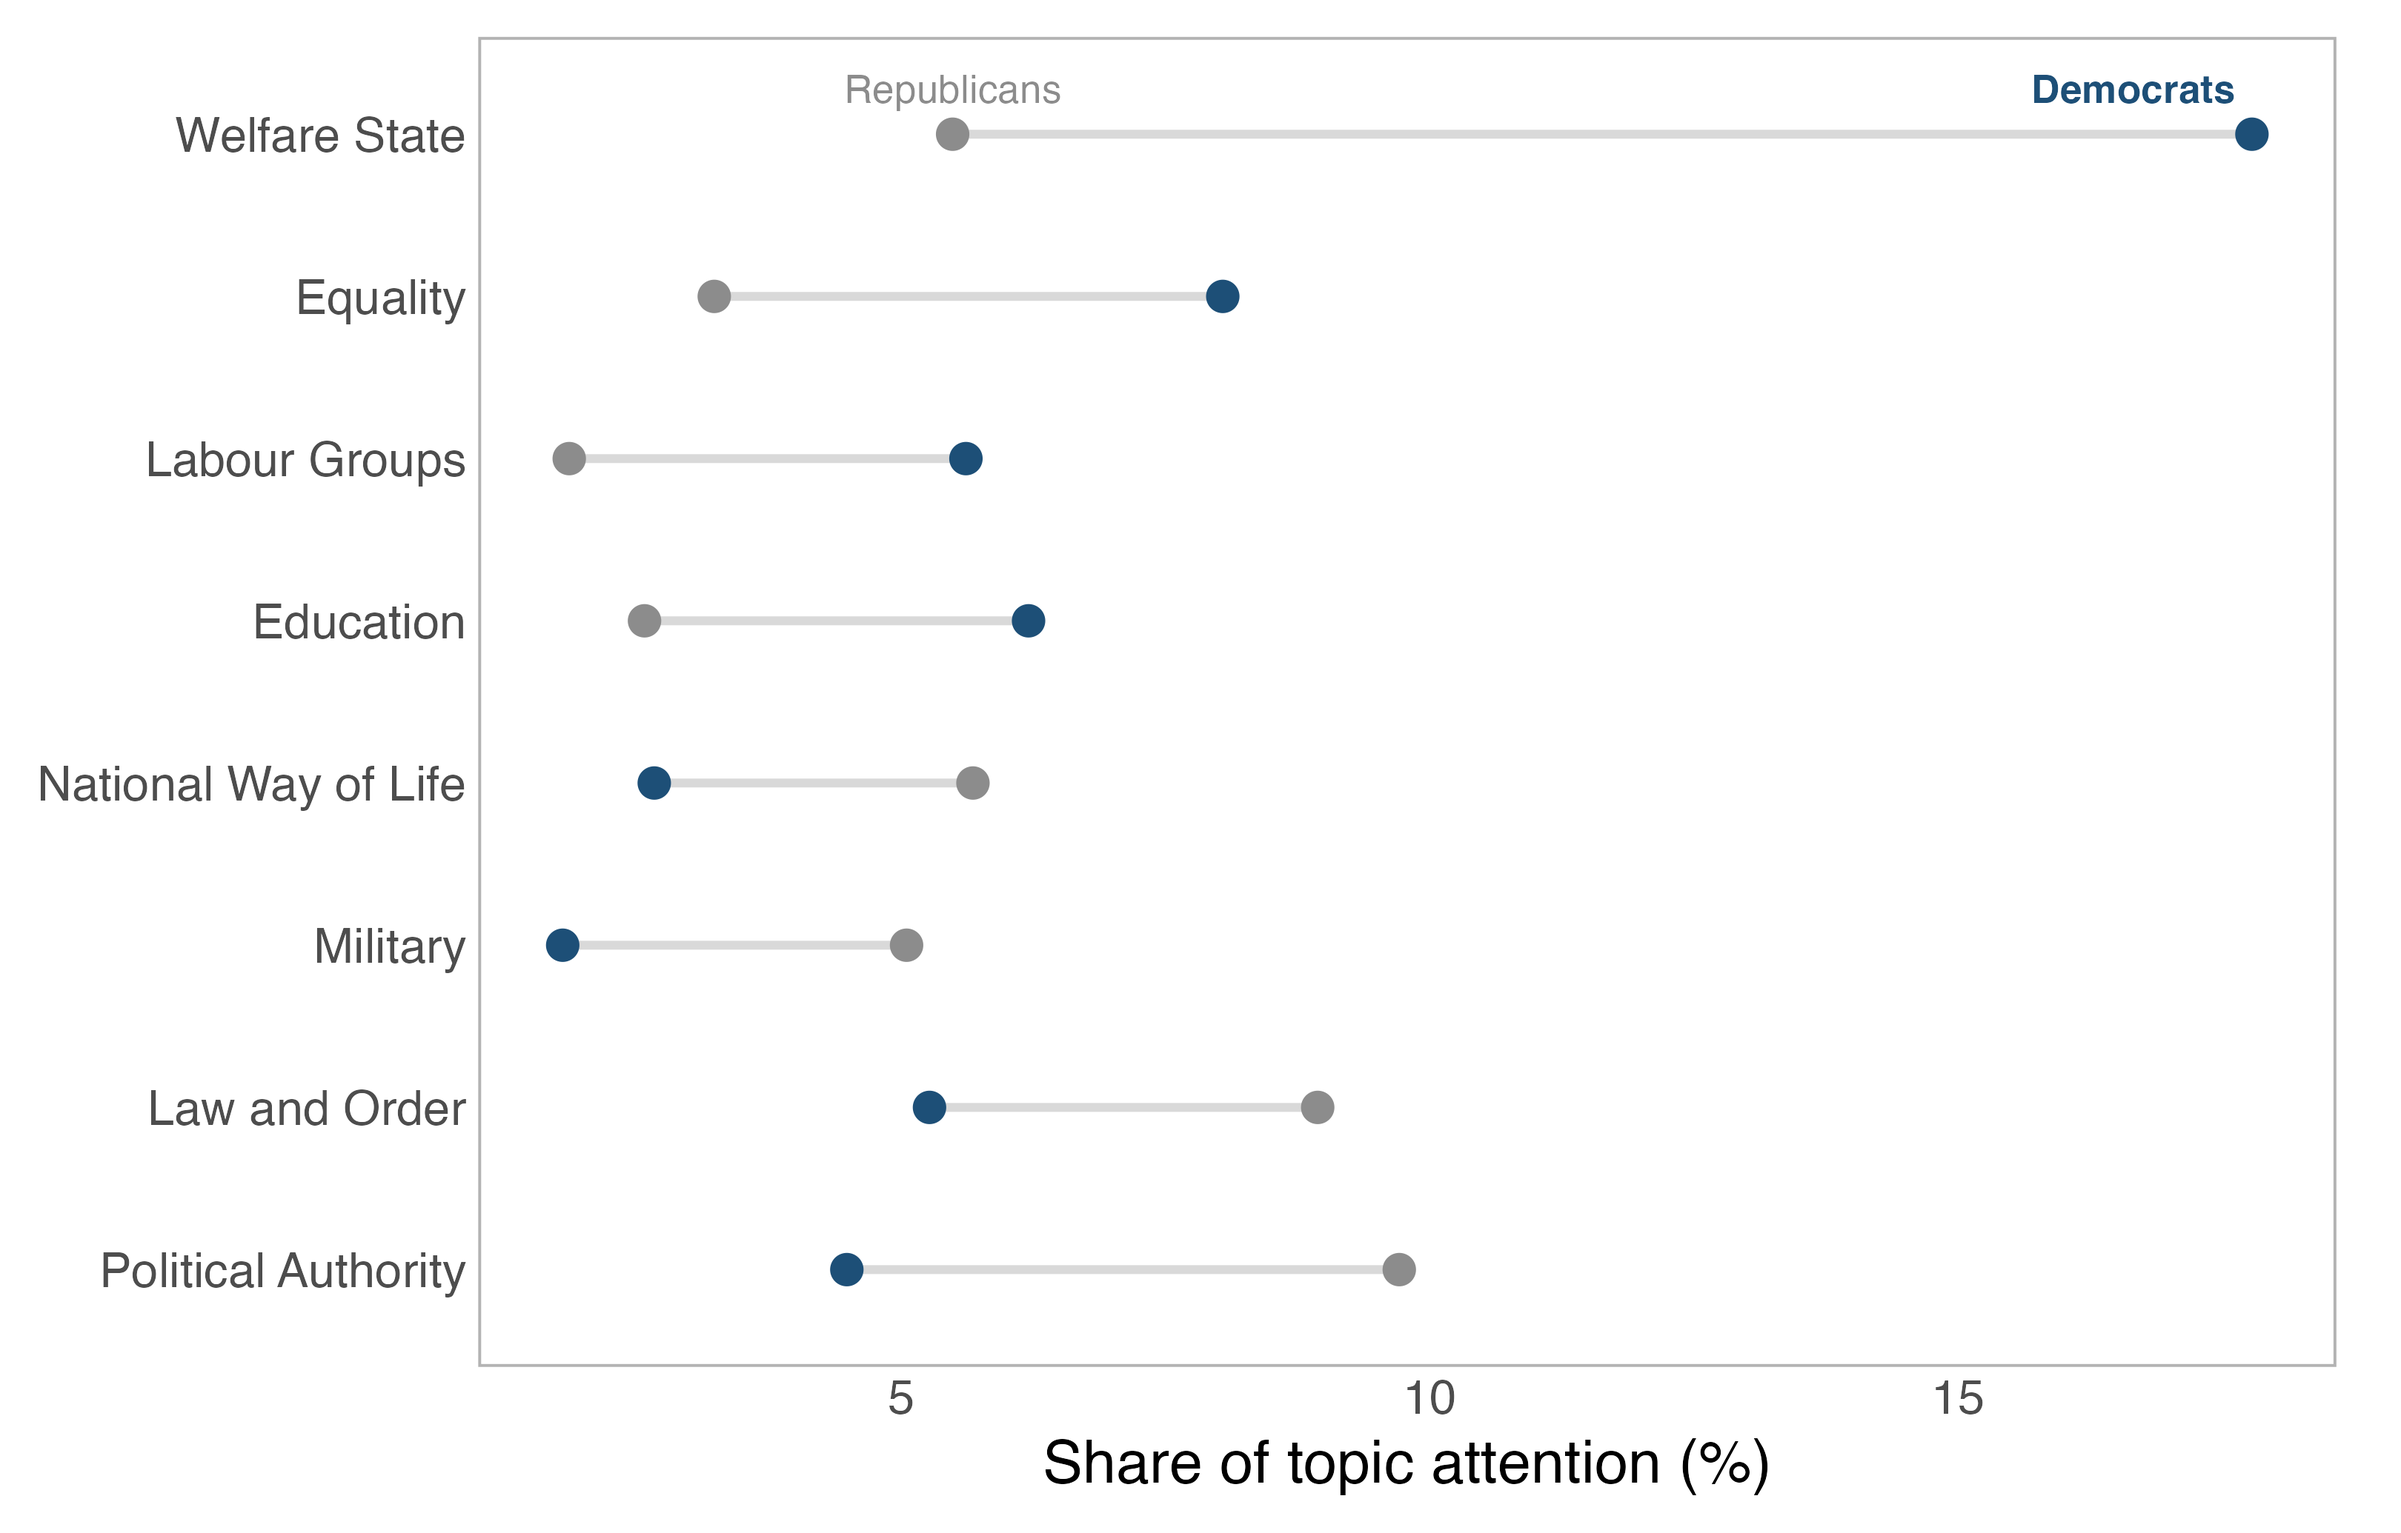
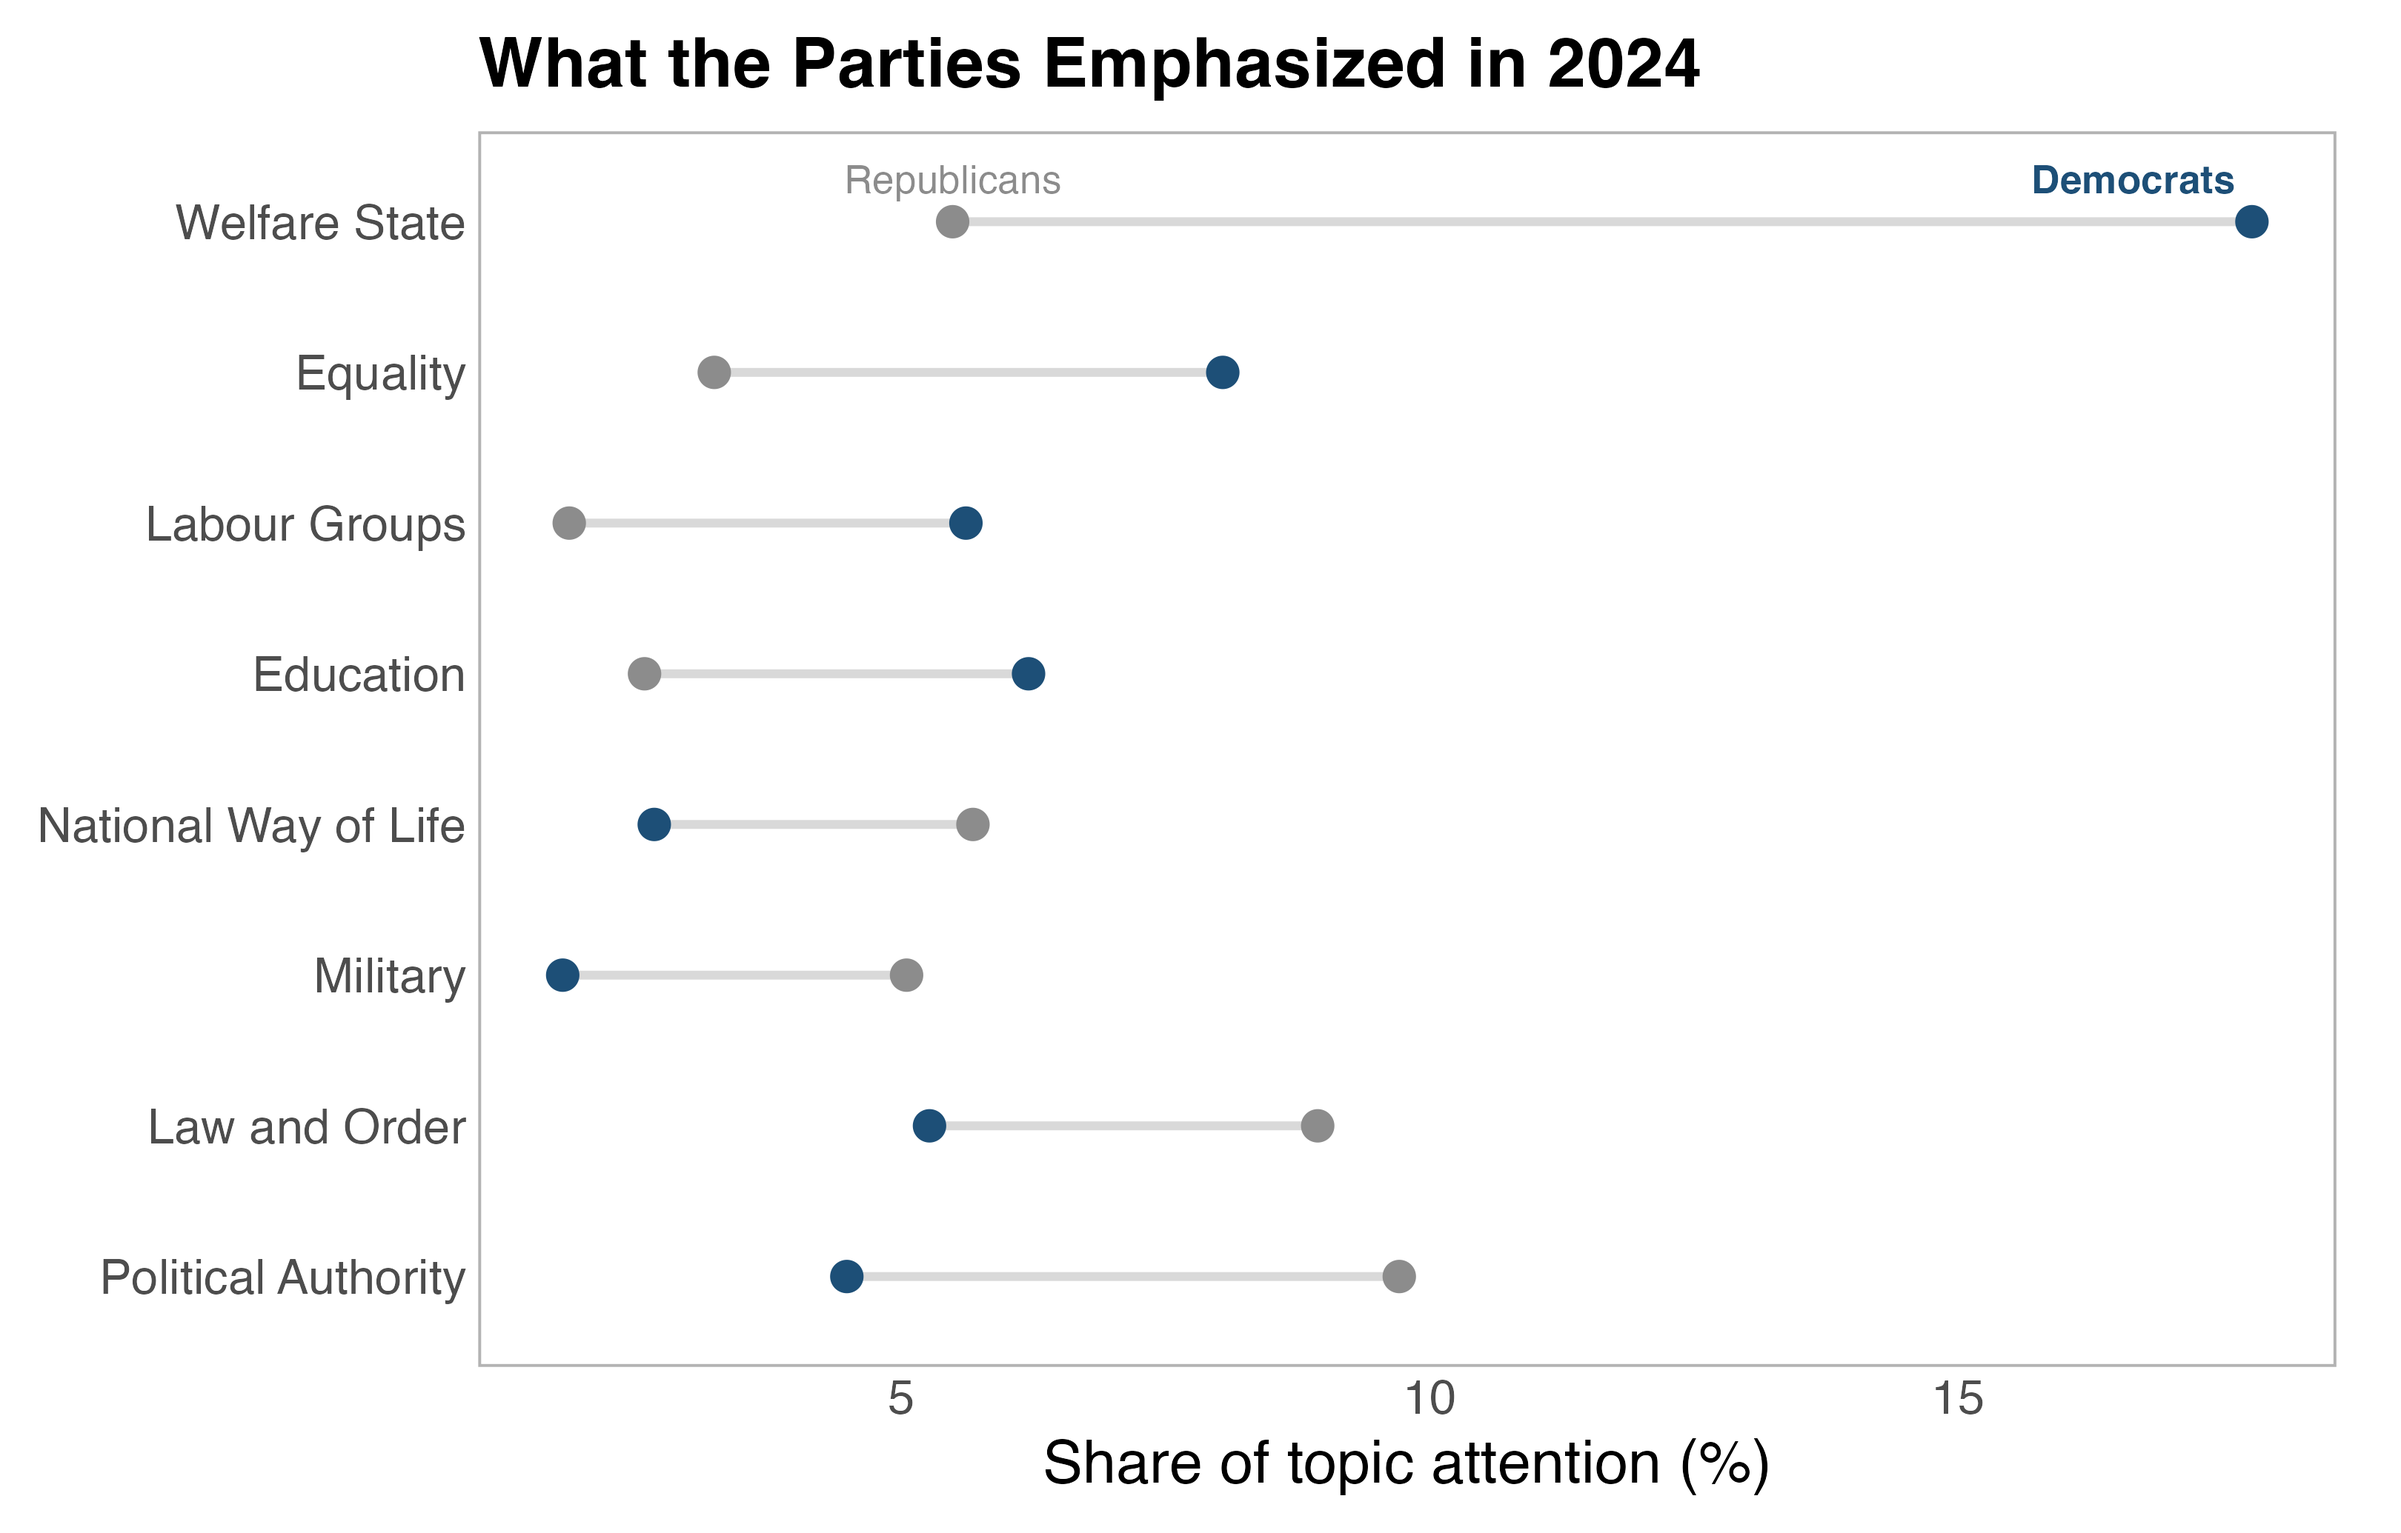
Revise release carousel

diff --git a/docs/release_announcement.md b/docs/release_announcement.md
@@ -98,16 +98,16 @@ publishing it on any platform.
 > Topic attention among Democratic and Republican House general-election
 > candidates in 2024. Topics measure emphasis, not policy position.
 
-**House–Senate replication**
+**Document-length continuity**
 
-> Democratic minus Republican topic-attention gaps in House and Senate
-> campaigns, 2018–2024. Across 31 topics, the two profiles correlate at .92.
+> Median characters among Democratic and Republican House general-election
+> candidates. The source changes between 2016 and 2018.
 
 ## Posting notes
 
 - Use the four-figure carousel in this order: long-run partisan issue gaps,
-  coverage against the ballot, the 2024 party agendas, and House–Senate
-  replication.
+  coverage against the ballot, the 2024 party agendas, and document-length
+  continuity at the source boundary.
 - Do not describe the topic measures as positions. They measure attention to 31
   Manifesto Project categories.
 - Do not describe the corpus as a census or as a sample limited to general

diff --git a/quality_reports/social_figure_candidates/README.md b/quality_reports/social_figure_candidates/README.md
@@ -39,11 +39,11 @@ Use four panels:
 1. Long-run partisan issue gaps.
 2. Coverage against the official ballot.
 3. The 2024 agenda comparison.
-4. House–Senate replication.
+4. Document-length continuity at the 2016–2018 boundary.
 
 The first and third figures show what the data can reveal. The second states
-who is represented. The fourth tests whether the main descriptive pattern
-survives a change in chamber and campaign context.
+who is represented. The fourth checks whether document length remains
+comparable when the source dataset changes.
 
 Upload the four numbered PNG files in `release_carousel` in this order.
 
